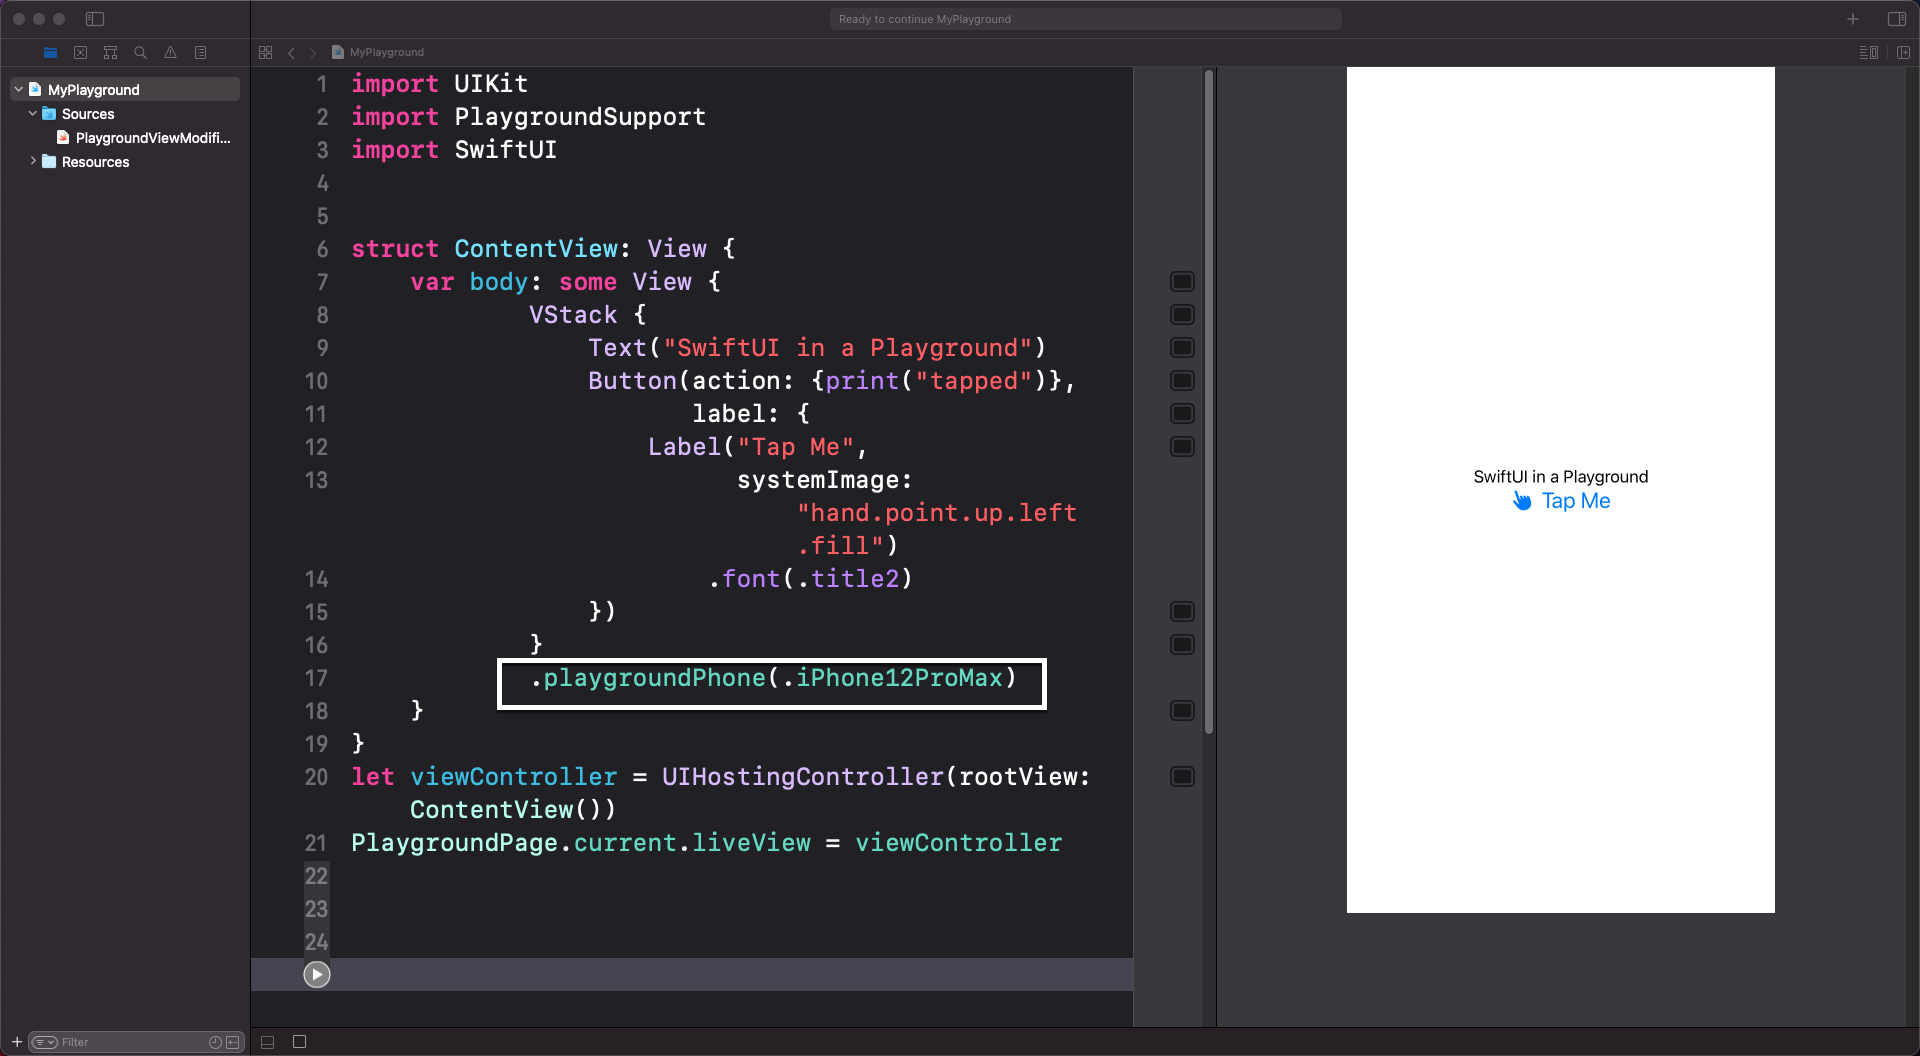
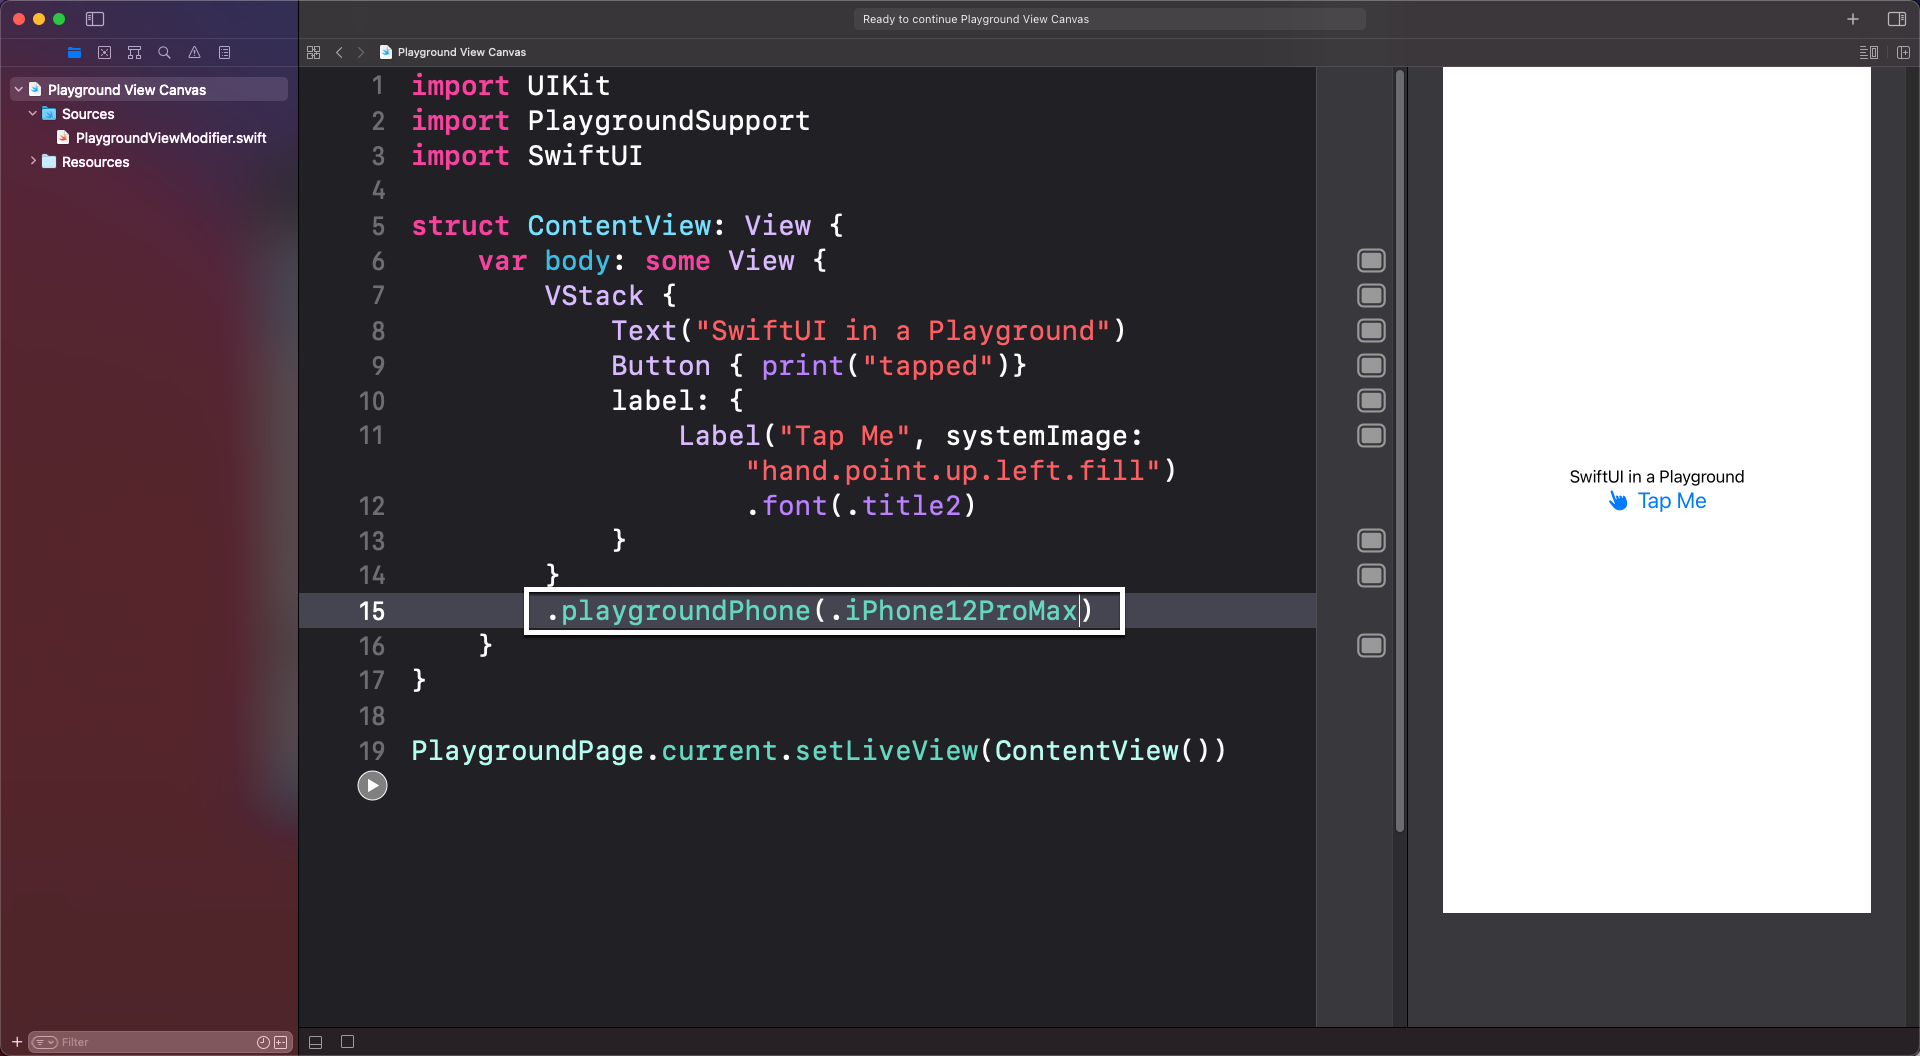
Updated ReadMe

diff --git a/README.md b/README.md
@@ -24,13 +24,12 @@ struct ContentView: View {
 }
 `````
 
-#### Step 2. Create UIHostingController passing in ContentView() as the rootView
+#### Step 2. Set the current playground page live view to the ContentView()
 
 If you want to see the view presented, you need to add the following code after your ContentView struct
 
 `````swift
-let viewController = UIHostingController(rootView: ContentView())
-PlaygroundPage.current.liveView = viewController
+PlaygroundPage.current.setLiveView(ContentView())
 `````
 
 Now when you run your playground, you will see the content view displayed to the right.
